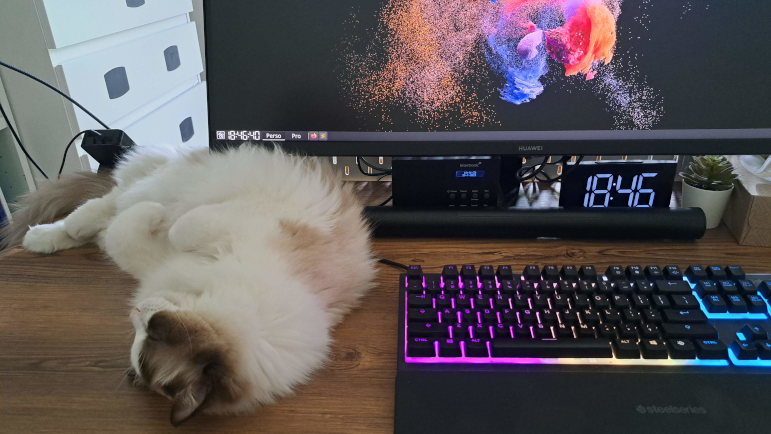
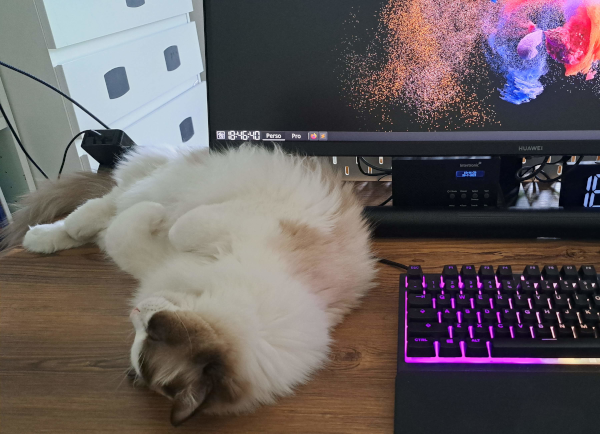
Move context out of vision home

diff --git a/content/low-vision/home.fr.md b/content/low-vision/home.fr.md
@@ -8,43 +8,10 @@ images:
 tags:
   - basse vision
 ---
-Je suis [hypersensible à la lumière](deficiences-visuelles#sensibilit%C3%A9-%C3%A0-la-lumi%C3%A8re-et-%C3%A0-l%C3%A9blouissement). Je partage ici quelques mesures et équipements qui m'aident à vivre cette situation aussi normalement que possible. Si vous ou l'un de vos proches vivez la même situation, j'espère que ces quelques lignes vous seront utiles.
-
-## Contexte
-En mai 2023, j'ai fait une [réaction auto-immune](https://fr.wikipedia.org/wiki/Enc%C3%A9phalomy%C3%A9lite_aigu%C3%AB_diss%C3%A9min%C3%A9e) qui m'a rendu totalement aveugle pendant quelques jours. J'ai heureusement été remarquablement pris en charge par les équipes du [CHUV](https://fr.wikipedia.org/wiki/Centre_hospitalier_universitaire_vaudois) à Lausanne et moins de deux mois après la fin du traitement, j'avais récupéré la majorité des [capacités sensorielles](../deficiences-visuelles) qui constituent la vision:
-* l'**acuité visuelle** (le célèbre "10/10 à chaque oeil"),
-* le **champ visuel**,
-* la **perception des couleurs**, en commençant par le jaune et le bleu et laissant donc le rouge revenir en dernier, ce qui n'est pas sans ironie pour un résident suisse.
-
-Aujourd'hui, seules ma **sensibilité à la lumière** et ma **sensibilité aux contrastes faibles** sont toujours déficientes. Concrètement, je suis beaucoup plus facilement ébloui qu'auparavant par les objets blancs, clairs et les couleurs saturées (les néons des magasins, par exemple). En raison de la mauvaise gestion de la luminosité, il m'est également plus difficile de repérer les objets ton sur ton, comme par exemple mon téléphone noir posé sur une surface noire.
-
-## Exemples
-### Éblouissement
-Les montages ci-dessous illustrent (maladroitement) l'éblouissement ressenti dans certaines situations.
-
-À la lecture d'un texte imprimé en noir sur fond blanc:
-* à gauche: page perçue avec une vision "normale"
-* à droite: la même page perçue avec une hypersensibilité à la lumière et en l'absence de lunettes
-
-![Livre "normal" vs "hyper-sensible"](/vision/livre.png)
-
-En milieu normalement éclairé:
-* en haut: scène perçue avec une vision "normale"
-* en bas: la même scène perçue avec une hypersensibilité à la lumière et en l'absence de lunettes
-
-![Images du bureau vision "normale"](/vision/cat-on-desk-normal.png)
-
-![Images du bureau vision "hyper-sensible"](/vision/cat-on-desk-blinded.png)
-
-### Contrastes faibles
-Pour me faciliter la vie, j'ai aposé des bandes fluo autocollantes sur la plupart des objets que j'ai du mal à repérer.
-
-![Téléphone noir sur cuir noir](/vision/phone-on-leather.png)
-
-Heureusement, grâce aux équipes du CHUV et de [l'hôpital ophtalmique Jules Gonin](https://www.ophtalmique.ch/), j'ai pu adapter mon environnement de façon à mener une vie aussi normale que possible. Cette section du site a pour but de partager ces adaptations. J'espère qu'elle sera utile à d'autres personnes hypersensibles à la lumière mais qui n'ont pas eu la chance d'être accompagnées et conseillées comme je l'ai été.
+Je suis hypersensible à la lumière[^1]. Je partage ici quelques mesures et équipements qui m'aident à vivre cette situation aussi normalement que possible. Si vous ou l'un de vos proches vivez la même situation, j'espère que ces quelques lignes vous seront utiles.
 
 ## Remarque sur les liens
-Lorsque cela est possible, j'inclus un lien vers les produits ou logiciels que je mentionne. Je n'en retire aucun bénéfice d'aucune sorte. Je le fais uniquement pour identifier sans équivoque ce dont je parle, au cas où un lecteur souhaiterait en savoir plus.
+Lorsque cela est possible, j'inclus un lien vers les produits ou logiciels que je mentionne. Je n'en retire aucun bénéfice d'aucune sorte. Je le fais uniquement pour aider à identifier sans équivoque ce dont je parle.
 
 Enfin, sauf mention contraire, j'utilise moi-même les références mentionnées.
 
@@ -81,3 +48,5 @@ Cette section explique comment configurer des sites populaires mais qui n'affich
 * Modèle
 * Réglages
 * Applications
+
+[^1]: Voir [cette page](../vision/contexte) pour plus de contexte.

diff --git a/content/low-vision/visual-impairement.fr.md b/content/low-vision/visual-impairement.fr.md
@@ -23,6 +23,17 @@ Une faible acuité visuelle peut être corrigée avec des lunettes, des lentille
 
 De nombreuses personnes malvoyantes ont une sensibilité extrême à la lumière (appelée photophobie). La lumière vive rend difficile ou impossible la vision, et provoque des douleurs oculaires et des maux de tête. Pour certaines personnes, la luminosité normale d'un écran d'ordinateur avec un fond lumineux n'est pas lisible et douloureuse. Ces personnes doivent alors changer le fond en une couleur plus foncée. La sensibilité à l'éblouissement accompagne fréquemment les modifications de la vision liées à l'âge et aux cataractes.
 
+### Exemples simulés de sensibilité à la lumière
+Les images ci-dessous ne sont pas issues du site du W3C. Je les ai (maladroitement) réalisées moi-même pour illustrer l'éblouissement ressenti dans certaines situations.
+
+|![Livre "normal"](/vision/livre-normal.png)|![Livre "hyper-sensible"](/vision/livre-ebloui.png)|
+|---|---|
+|Lecture sans hypersensibilité à la lumière|Lecture avec hypersensibilité à la lumière|
+
+|![Images du bureau vision "normale"](/vision/cat-on-desk-normal.png)|![Images du bureau vision "hyper-sensible"](/vision/cat-on-desk-blinded.png)|
+|---|---|
+|Vision sans hypersensibilité à la lumière|Vision avec hypersensibilité à la lumière|
+
 ## Sensibilité au contraste
 
 La sensibilité au contraste est la capacité de détecter les différences de luminosité, par exemple, à discerner le texte de son contexte. Une barrière d'accessibilité commune pour les personnes à faible sensibilité au contraste est le texte gris sur fond clair.

diff --git a/content/low-vision/context.fr.md b/content/low-vision/context.fr.md
@@ -1,0 +1,16 @@
+---
+title: "Hypersensibilité à la lumière"
+slug: "../vision/contexte"
+date: 2023-08-06T21:59:54+02:00
+draft: false
+toc: false
+images:
+tags:
+  - basse vision
+---
+## Histoire personelle
+Je suis devenu [hypersensible à la lumière](deficiences-visuelles#sensibilit%C3%A9-%C3%A0-la-lumi%C3%A8re-et-%C3%A0-l%C3%A9blouissement) en mai 2023, suite à une [réaction auto-immune](https://fr.wikipedia.org/wiki/Enc%C3%A9phalomy%C3%A9lite_aigu%C3%AB_diss%C3%A9min%C3%A9e) qui m'a rendu totalement aveugle pendant quelques jours. J'ai heureusement été remarquablement pris en charge par les équipes du [CHUV](https://fr.wikipedia.org/wiki/Centre_hospitalier_universitaire_vaudois) à Lausanne et moins de deux mois après la fin du traitement, j'avais récupéré la majorité des [capacités sensorielles](../deficiences-visuelles) qui constituent la vision:
+* l'**acuité visuelle** (le célèbre "10/10 à chaque oeil"),
+* le **champ visuel**,
+* la **perception des couleurs**, en commençant par le jaune et le bleu et laissant donc le rouge revenir en dernier, ce qui n'est pas sans ironie pour un résident suisse.
+Aujourd'hui, seules ma **sensibilité à la lumière** et ma **sensibilité aux contrastes faibles** sont toujours déficientes. Concrètement, je suis beaucoup plus facilement ébloui qu'auparavant par les couleurs claires ou saturées (les néons des magasins, par exemple).
